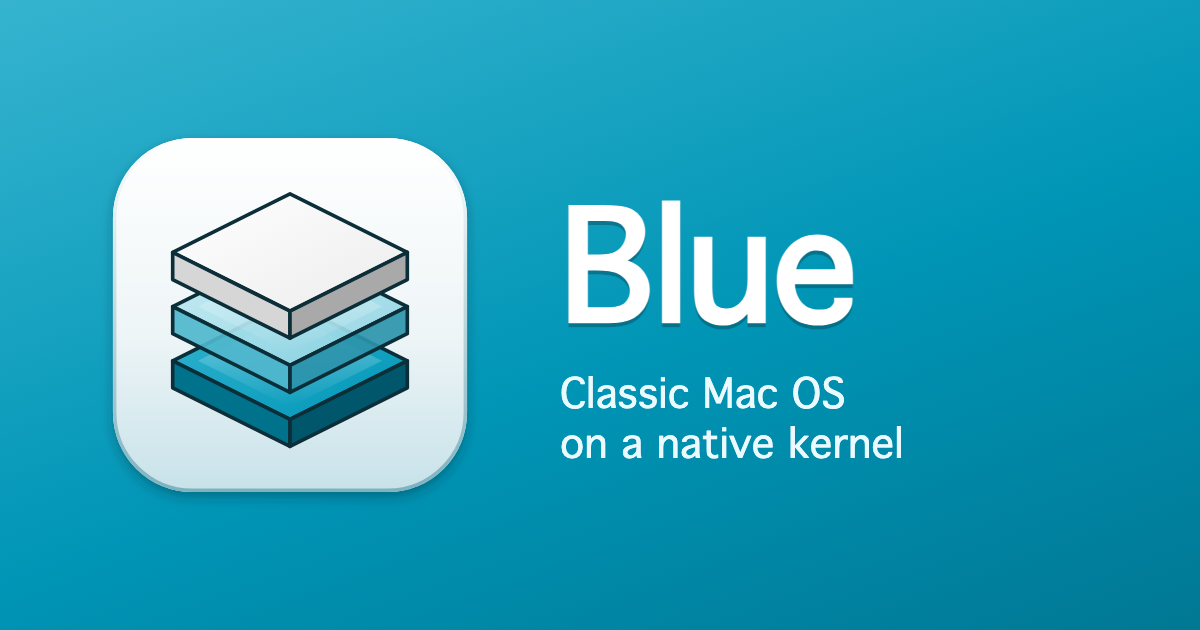
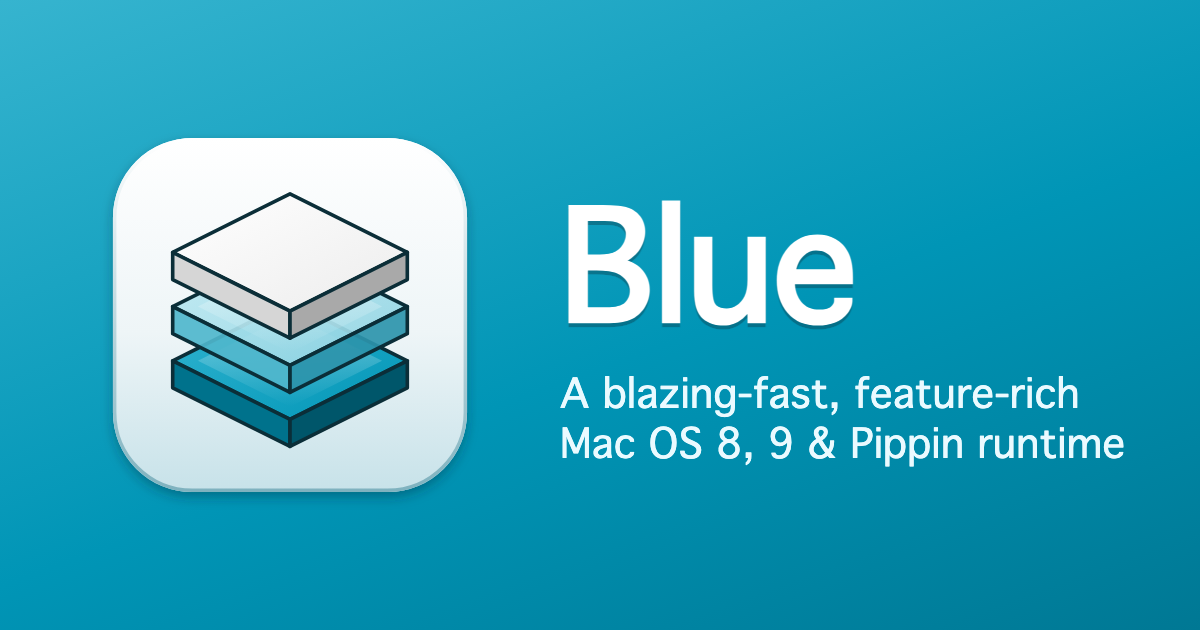
README, site and desktop entry: "A blazing-fast, feature-rich Mac OS 8, 9 & Pippin runtime" (the hero, title, meta and social card)

Changed region(s): [[0.4625, 0.6032, 0.9558, 0.754]]

diff --git a/site/index.html b/site/index.html
@@ -3,16 +3,16 @@
 <head>
 <meta charset="utf-8">
 <meta name="viewport" content="width=device-width, initial-scale=1">
-<title>Blue: classic Mac OS on a native kernel</title>
-<meta name="description" content="Run classic Mac OS on arbitrary hardware by replacing the bottom of the OS instead of emulating a whole Power Mac. For macOS and Linux, on AArch64 (Apple silicon) and x86_64.">
+<title>Blue: a blazing-fast, feature-rich Mac OS 8, 9 &amp; Pippin runtime</title>
+<meta name="description" content="A blazing-fast, feature-rich Mac OS 8, 9 &amp; Pippin runtime: Apple's own code runs unmodified on a native replacement for the Power Mac's NanoKernel, instead of an emulated Power Mac. For macOS and Linux, on AArch64 (Apple silicon) and x86_64.">
 <meta property="og:type" content="website">
 <meta property="og:url" content="__SITE__/">
 <meta property="og:title" content="Blue">
-<meta property="og:description" content="Run classic Mac OS on arbitrary hardware by replacing the bottom of the OS instead of emulating a whole Power Mac. For macOS and Linux, on AArch64 (Apple silicon) and x86_64.">
+<meta property="og:description" content="A blazing-fast, feature-rich Mac OS 8, 9 &amp; Pippin runtime: Apple's own code runs unmodified on a native replacement for the Power Mac's NanoKernel, instead of an emulated Power Mac. For macOS and Linux, on AArch64 (Apple silicon) and x86_64.">
 <meta property="og:image" content="__SITE__/og-image.png">
 <meta property="og:image:width" content="1200">
 <meta property="og:image:height" content="630">
-<meta property="og:image:alt" content="Blue's mark, three slabs in white and Bondi Blue, beside the words Blue: Classic Mac OS on a native kernel">
+<meta property="og:image:alt" content="Blue's mark, three slabs in white and Bondi Blue, beside the words Blue: a blazing-fast, feature-rich Mac OS 8, 9 &amp; Pippin runtime">
 <meta name="twitter:card" content="summary_large_image">
 <meta name="theme-color" content="#dddddd">
 <link rel="icon" href="favicon.svg" type="image/svg+xml">
@@ -147,7 +147,7 @@
         <svg class="splash-logo" aria-hidden="true"><use href="#i-logo"/></svg>
         <p class="splash-welcome">Welcome to</p>
         <h1 id="hero-title">Blue</h1>
-        <p class="tagline">Run classic Mac OS on arbitrary hardware by replacing the bottom of the OS instead of emulating a whole Power Mac.</p>
+        <p class="tagline">A blazing-fast, feature-rich Mac OS 8, 9 &amp; Pippin runtime.</p>
         <p class="platforms">For macOS and Linux, on AArch64 (Apple silicon) and x86_64.</p>
       </div>
       <div class="splash-buttons">

diff --git a/tools/icons.py b/tools/icons.py
@@ -471,7 +471,7 @@ def make_site(tmp):
             '<div style="font-size:150px;font-weight:700;line-height:1;letter-spacing:-2px;'
             'text-shadow:0 4px 0 rgba(11,46,56,.35)">Blue</div>'
             '<div style="margin-top:28px;font-size:40px;line-height:1.25;color:#eafaff">'
-            'Classic Mac OS<br>on a native kernel</div></div></div>')
+            'A blazing-fast, feature-rich<br>Mac OS 8, 9 &amp; Pippin runtime</div></div></div>')
     out = os.path.join(ROOT, 'site', 'og-image.png')
     render(page(card), 1200, 630, out, tmp)
     print('icons:', os.path.relpath(out, ROOT))

diff --git a/README.md b/README.md
@@ -5,10 +5,10 @@
 <h1 align="center">Blue</h1>
 
 <p align="center">
-  <strong>Classic Mac OS on a native kernel.</strong><br>
-  Mac OS 8.5 to 9.2.2 on today's Macs and Linux PCs: Apple's own code runs
-  unmodified, on a native replacement for the Power Mac's NanoKernel instead
-  of an emulated Power Mac.
+  <strong>A blazing-fast, feature-rich Mac OS 8, 9 &amp; Pippin runtime.</strong><br>
+  Mac OS 8.5 to 9.2.2 and Pippin titles on today's Macs and Linux PCs:
+  Apple's own code runs unmodified, on a native replacement for the Power
+  Mac's NanoKernel instead of an emulated Power Mac.
 </p>
 
 <p align="center">
